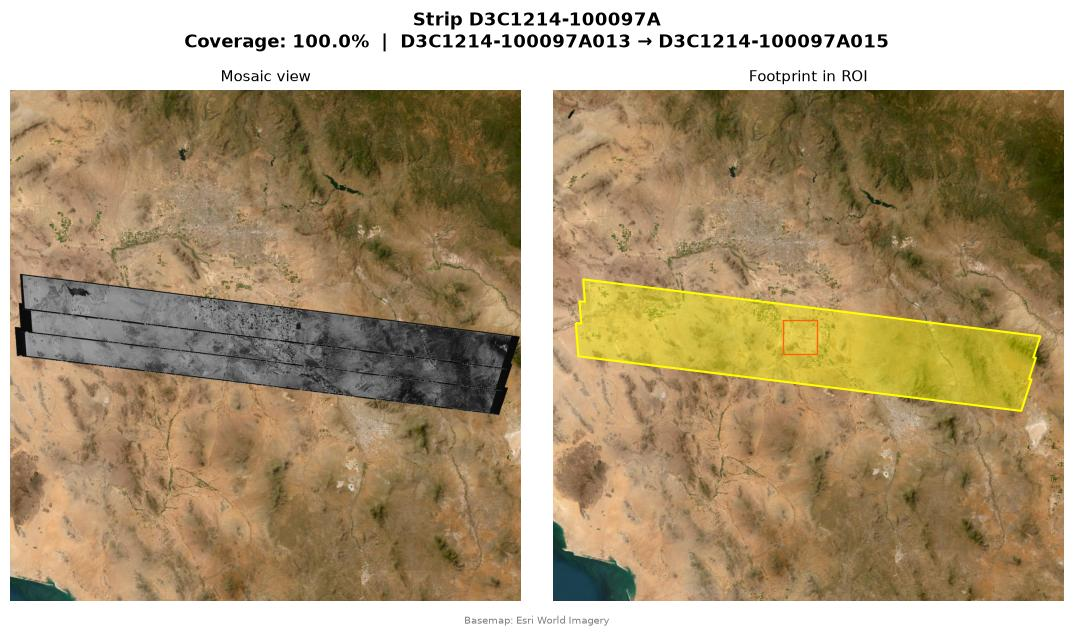
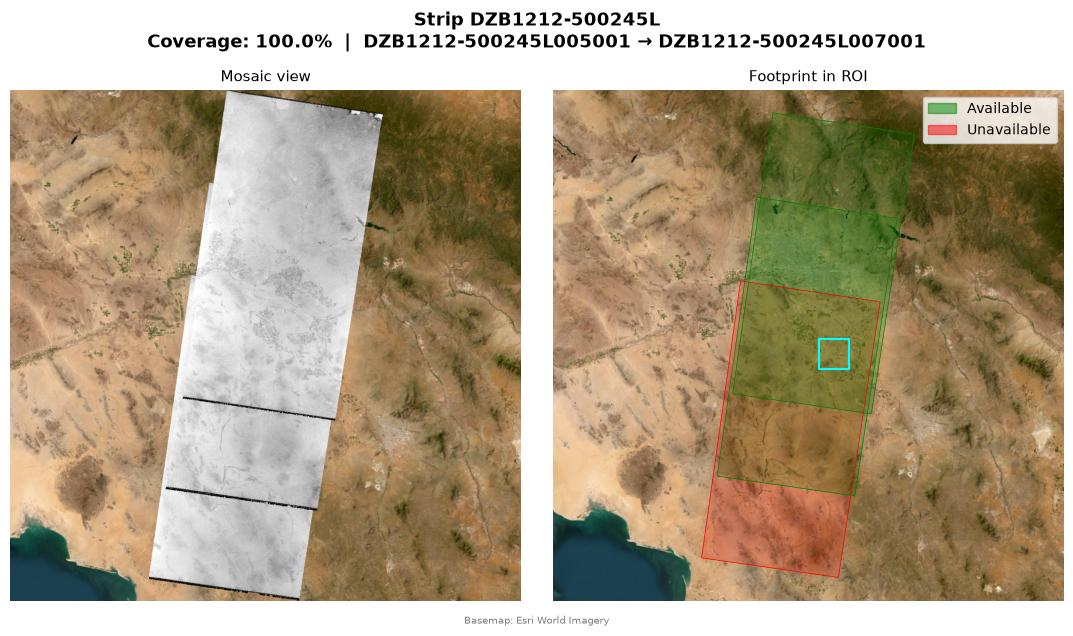
highligh in red unavailable scenes

diff --git a/usgsxplore/viz/strip_figures.py b/usgsxplore/viz/strip_figures.py
@@ -11,11 +11,11 @@ import rasterio
 from rasterio.merge import merge
 from rasterio.plot import plotting_extent
 from rasterio.vrt import WarpedVRT
-from shapely.ops import unary_union
 from tqdm import tqdm
 
 from usgsxplore.core import download_browse_images
-from usgsxplore.utils import RoiType, as_gdf, available_column, get_strip_id_from_entity_id
+from usgsxplore.utils import RoiType, as_gdf, get_strip_id_from_entity_id
+from usgsxplore.viz.scenes_footprint import plot_footprints
 
 WEB_MERCATOR_WORLD_EXTENT = 20037508.34
 # Half-width of the ROI-less context view, as a multiple of the strip's largest dimension.
@@ -28,15 +28,13 @@ def generate_strip_figures(
     roi: RoiType | None = None,
     max_workers: int = 4,
     overwrite: bool = False,
-    highlight_unavailable: bool = True,
     work_dir: str | Path | None = None,
     clean_work_dir: bool = True,
 ) -> None:
     """Generate one `<strip_id>.jpg` figure per strip in `source`, in parallel, under `output_dir`.
 
-    Each figure shows the browse-image mosaic of the strip next to a context map. If
-    `highlight_unavailable`, scenes not available for download are shaded
-    in red. Strips that fail are reported as warnings without stopping the others.
+    Each figure shows the browse-image mosaic of the strip next to a context map of the scene
+    footprints colored by availability. Strips that fail are reported as warnings without stopping the others.
     """
     gdf = as_gdf(source)
     roi_gdf = as_gdf(roi) if roi is not None else None
@@ -57,9 +55,7 @@ def generate_strip_figures(
             if not overwrite and output_file.exists():
                 continue
 
-            future = executor.submit(
-                _generate_strip_figure, sub_gdf, output_file, roi_gdf, highlight_unavailable, work_dir, clean_work_dir
-            )
+            future = executor.submit(_generate_strip_figure, sub_gdf, output_file, roi_gdf, work_dir, clean_work_dir)
             futures[future] = strip_id
 
         if len(futures) == 0:
@@ -77,7 +73,6 @@ def _generate_strip_figure(
     gdf: gpd.GeoDataFrame,
     output_file: str | Path,
     roi_gdf: gpd.GeoDataFrame | None = None,
-    highlight_unavailable: bool = True,
     work_dir: str | Path | None = None,
     clean_work_dir: bool = True,
 ) -> None:
@@ -108,9 +103,6 @@ def _generate_strip_figure(
 
         gdf_3857 = gdf.to_crs(epsg=3857)
         roi_3857 = roi_gdf.to_crs(epsg=3857) if roi_gdf is not None else None
-
-        if highlight_unavailable:
-            _highlight_unavailable_scenes(ax_zoom, gdf_3857)
 
         _fill_square_panel(ax_zoom)
         ctx.add_basemap(ax_zoom, zorder=0, source=ctx.providers.Esri.WorldImagery, attribution=False)
@@ -162,21 +154,6 @@ def _build_mosaic(raster_paths: list[Path]):
             ds.close()
 
 
-def _highlight_unavailable_scenes(ax, gdf_3857: gpd.GeoDataFrame):
-    """Overlay red semi-transparent polygons on scenes not available for download."""
-    covered = None
-    red_parts = []
-    for geom, available in zip(gdf_3857.geometry, available_column(gdf_3857)):
-        visible = geom if covered is None else geom.difference(covered)
-        if not available and not visible.is_empty:
-            red_parts.append(visible)
-        covered = geom if covered is None else covered.union(geom)
-    if red_parts:
-        gpd.GeoDataFrame(geometry=[unary_union(red_parts)], crs="EPSG:3857").plot(
-            ax=ax, color="red", alpha=0.2, zorder=2
-        )
-
-
 def _compute_coverage(gdf_3857: gpd.GeoDataFrame, roi_3857: gpd.GeoDataFrame) -> float:
     """Return the percentage of the ROI area covered by the strip footprint."""
     roi_geom = roi_3857.union_all()
@@ -189,13 +166,9 @@ def _plot_context(ax, gdf_3857: gpd.GeoDataFrame, roi_3857: gpd.GeoDataFrame | N
 
     When no ROI is given, the view is a square region centered on the strip instead.
     """
-    strip_union = gpd.GeoDataFrame(geometry=[gdf_3857.union_all()], crs="EPSG:3857")
-    if roi_3857 is not None:
-        roi_3857.boundary.plot(ax=ax, color="red", linewidth=1, zorder=1)
-    strip_union.plot(ax=ax, color="yellow", alpha=0.4, zorder=2)
-    strip_union.boundary.plot(ax=ax, color="yellow", linewidth=1.5, zorder=3)
+    plot_footprints(ax, gdf_3857, roi_3857)
     if roi_3857 is None:
-        minx, miny, maxx, maxy = strip_union.total_bounds
+        minx, miny, maxx, maxy = gdf_3857.total_bounds
         cx, cy = (minx + maxx) / 2, (miny + maxy) / 2
         half = CONTEXT_ZOOM_FACTOR * max(maxx - minx, maxy - miny)
         # Tiles do not exist beyond the Web Mercator bounds, which high-latitude strips would exceed.

diff --git a/usgsxplore/viz/scenes_footprint.py b/usgsxplore/viz/scenes_footprint.py
@@ -3,8 +3,9 @@ from pathlib import Path
 import contextily as ctx
 import geopandas as gpd
 import matplotlib.pyplot as plt
+from matplotlib.patches import Patch
 
-from usgsxplore.utils import RoiType, as_gdf
+from usgsxplore.utils import RoiType, as_gdf, available_column
 
 
 def generate_scenes_footprint(
@@ -28,14 +29,10 @@ def generate_scenes_footprint(
         raise ValueError("No scenes to plot")
 
     fig, ax = plt.subplots(figsize=(10, 10))
-    gdf_3857.plot(ax=ax, color="yellow", alpha=0.2, zorder=1)
-    gdf_3857.boundary.plot(ax=ax, color="yellow", linewidth=0.5, zorder=2)
-    if roi is not None:
-        # Not `.boundary`: a point ROI has an empty boundary and would vanish.
-        as_gdf(roi).to_crs(epsg=3857).plot(ax=ax, facecolor="none", edgecolor="red", linewidth=1.5, zorder=3)
+    n_available = plot_footprints(ax, gdf_3857, as_gdf(roi).to_crs(epsg=3857) if roi is not None else None)
 
     ctx.add_basemap(ax, zorder=0, source=ctx.providers.Esri.WorldImagery, attribution=False)
-    ax.set_title(f"Scenes footprint ({len(gdf_3857)} scenes)", fontsize=13, fontweight="bold")
+    ax.set_title(f"Scenes footprint ({n_available} available / {len(gdf_3857)} scenes)", fontsize=13, fontweight="bold")
     ax.axis("off")
     # Anchored to the map, not the figure: the map rarely fills the square figure and tight cropping stops at text.
     ax.text(
@@ -51,3 +48,29 @@ def generate_scenes_footprint(
 
     fig.savefig(output_file, dpi=150, bbox_inches="tight")
     plt.close(fig)
+
+
+def plot_footprints(ax, gdf_3857: gpd.GeoDataFrame, roi_3857: gpd.GeoDataFrame | None = None) -> int:
+    """Draw scene footprints in green (available) or red (unavailable), the ROI outline in cyan, and a legend.
+
+    Returns the number of available scenes.
+    """
+    # Unavailable first so available scenes are drawn on top where they overlap.
+    available = available_column(gdf_3857).sort_values(kind="stable")
+    gdf_3857 = gdf_3857.loc[available.index]
+    colors = available.map({True: "green", False: "red"}).to_numpy()
+
+    gdf_3857.plot(ax=ax, color=colors, alpha=0.2, zorder=1)
+    gdf_3857.boundary.plot(ax=ax, color=colors, linewidth=0.5, zorder=2)
+    if roi_3857 is not None:
+        # Not `.boundary`: a point ROI has an empty boundary and would vanish.
+        roi_3857.plot(ax=ax, facecolor="none", edgecolor="cyan", linewidth=1.5, zorder=3)
+
+    ax.legend(
+        handles=[
+            Patch(facecolor="green", edgecolor="green", alpha=0.5, label="Available"),
+            Patch(facecolor="red", edgecolor="red", alpha=0.5, label="Unavailable"),
+        ],
+        loc="upper right",
+    )
+    return int(available.sum())

diff --git a/docs/figures.md b/docs/figures.md
@@ -1,24 +1,31 @@
 # Figures
 
-Examples of the `usgsxplore viz` outputs, made from Hexagon KH-9 scenes over Arizona.
+Examples of the `usgsxplore viz` outputs, made from Hexagon KH-9 Mapping Camera scenes over Arizona.
 
-The footprint and strip examples use the KH-9 panoramic camera scenes from a single day:
+The footprint example uses the KH-9 MC scenes acquired in 1974 over a small area near Phoenix:
 
 ```bash
-usgsxplore search declassiii --bbox -111.87783 32.66157 -111.60280 32.89378 -i 1978-03-25 1978-03-25 \
-    -f "camera_resol=6" -o kh9_pc.gpkg
+usgsxplore search declassii --bbox -111.87783 32.66157 -111.60280 32.89378 -i 1974-01-01 1974-12-31 \
+    -f "camera=L" -o kh9_mc_1974.gpkg
 ```
 
-The density example uses every KH-9 scene over a wider area:
+The strip example uses the single strip acquired on 1976-08-28 over the same area:
 
 ```bash
-usgsxplore search declassiii --bbox -112.5 32 -111 33.5 -o kh9_all.gpkg
+usgsxplore search declassii --bbox -111.87783 32.66157 -111.60280 32.89378 -i 1976-08-28 1976-08-28 \
+    -f "camera=L" -o kh9_mc_strip.gpkg
+```
+
+The density example uses every KH-9 MC scene over a wider area:
+
+```bash
+usgsxplore search declassii --bbox -112.5 32 -111 33.5 -f "camera=L" -o kh9_mc_all.gpkg
 ```
 
 ## `footprint`
 
 ```bash
-usgsxplore viz footprint kh9_pc.gpkg -o footprint.jpg --roi-bbox -111.87783 32.66157 -111.60280 32.89378
+usgsxplore viz footprint kh9_mc_1974.gpkg -o footprint.jpg --roi-bbox -111.87783 32.66157 -111.60280 32.89378
 ```
 
 ![Scene footprints](images/footprint.jpg)
@@ -26,7 +33,7 @@ usgsxplore viz footprint kh9_pc.gpkg -o footprint.jpg --roi-bbox -111.87783 32.6
 ## `density`
 
 ```bash
-usgsxplore viz density kh9_all.gpkg -o density.jpg --roi-bbox -112.5 32 -111 33.5
+usgsxplore viz density kh9_mc_all.gpkg -o density.jpg --roi-bbox -112.5 32 -111 33.5
 ```
 
 ![Scene overlap density](images/density.jpg)
@@ -34,7 +41,7 @@ usgsxplore viz density kh9_all.gpkg -o density.jpg --roi-bbox -112.5 32 -111 33.
 ## `strip`
 
 ```bash
-usgsxplore viz strip kh9_pc.gpkg -o ./strips --roi-bbox -111.87783 32.66157 -111.60280 32.89378
+usgsxplore viz strip kh9_mc_strip.gpkg -o ./strips --roi-bbox -111.87783 32.66157 -111.60280 32.89378
 ```
 
 ![Strip figure](images/strip.jpg)
